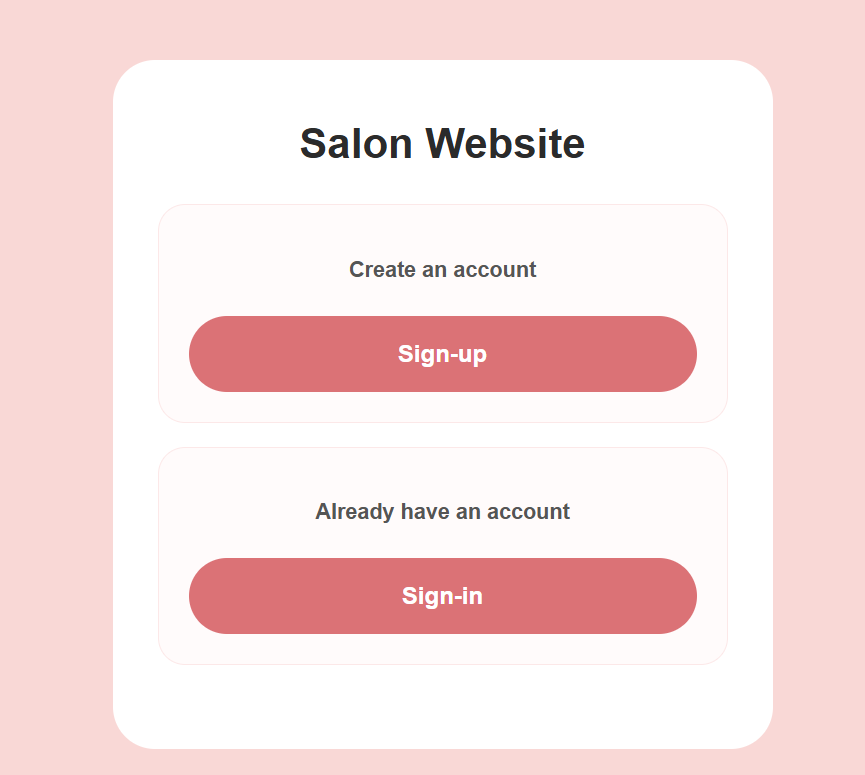
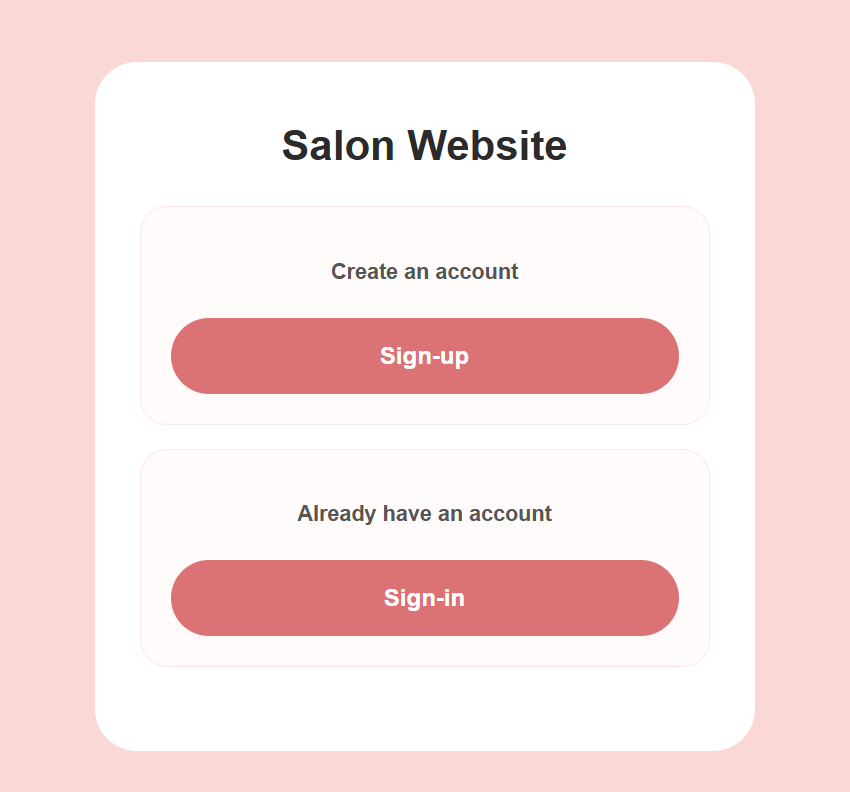
add imag

diff --git a/README.md b/README.md
@@ -18,7 +18,7 @@ This is a salon online booking website that allows user to explore salon service
 - Dark mode
 
 ## Screenshots
-![alt text](image-1.png)
+![alt text](image.png)
 
 ## Technologies Used
 - HTML